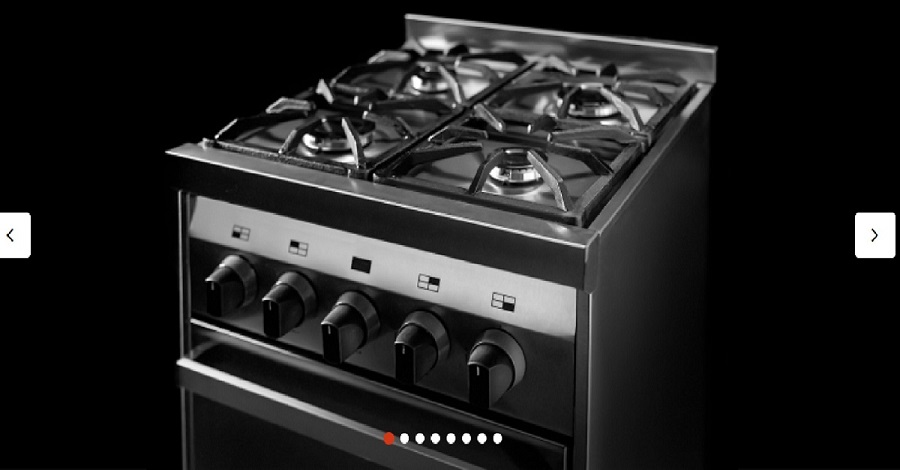
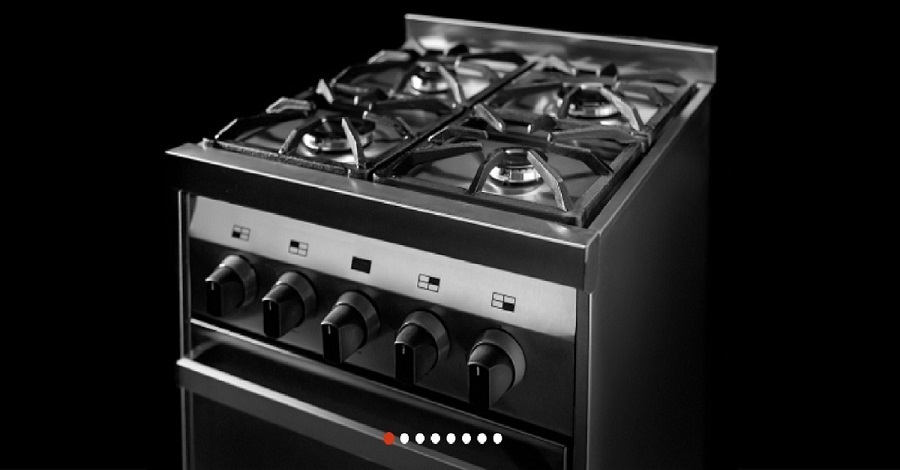
implementacion de carousel en index

Changed region(s): [[0.9333, 0.4468, 0.9956, 0.566], [0.0, 0.4468, 0.0622, 0.566]]

diff --git a/index.html b/index.html
@@ -27,19 +27,47 @@
             </nav>
     </header>
     <main>         
-        <h1 class="titulo">REFRICAR EQUIPAMIENTOS</h1>
-        <img class="img__portada" src="recursos/Foto header.jpg" alt="foto_portada">
+        <section class="container-fluid">
+            <div id="carouselExampleIndicators" class="carousel slide" data-bs-ride="true">
+                <div class="carousel-indicators">
+                    <button type="button" data-bs-target="#carouselExampleIndicators" data-bs-slide-to="0" class="active" aria-current="true" aria-label="Slide 1"></button>
+                    <button type="button" data-bs-target="#carouselExampleIndicators" data-bs-slide-to="1" aria-label="Slide 2"></button>
+                    <button type="button" data-bs-target="#carouselExampleIndicators" data-bs-slide-to="2" aria-label="Slide 3"></button>
+                </div>
+                <div class="carousel-inner">
+                    <div class="carousel-item active">
+                        <img src= "recursos/Foto header.jpg" class="d-block w-100" alt="...">
+                    </div>
+                    <div class="carousel-item">
+                        <img src="recursos/Batidora planetaria MP-7-01-834x800.jpg" class="d-block w-100" alt="...">
+                    </div>
+                    <div class="carousel-item">
+                        <img src="recursos/Horno convector mc840.jpg" class="d-block w-100" alt="...">
+                    </div>
+                </div>
+                <button class="carousel-control-prev" type="button" data-bs-target="#carouselExampleIndicators" data-bs-slide="prev">
+                    <span class="carousel-control-prev-icon" aria-hidden="true"></span>
+                    <span class="visually-hidden">Previous</span>
+                </button>
+                <button class="carousel-control-next" type="button" data-bs-target="#carouselExampleIndicators" data-bs-slide="next">
+                    <span class="carousel-control-next-icon" aria-hidden="true"></span>
+                    <span class="visually-hidden">Next</span>
+                </button>
+            </div>
+
+        </section>
+        <!-- seccion index -->
         <section class="container"> 
-            <article class="d-flex flex-row col xl-3 justify-content-between">
-                <div class=" d-flex flex-column align-items-center">
+            <article class="d-flex flex-row flex-wrap justify-content-around">
+                <div class=" d-flex flex-column align-items-center col-xl-3 col-md-9 col-sd-10">
                     <img src="recursos/Sucursales.jpg" alt="Sucursales" class="img-fluid">
                     <button class="button__indexStile">SUCURSALES</button> 
                 </div>
-                <div class="d-flex flex-column align-items-center">
+                <div class="d-flex flex-column align-items-center col-xl-3 col-md-9 col-sd-10">
                     <img src="recursos/Servicio Tecnico.jpg" alt="servicio Tecnico" class="img-fluid">
                     <button class="button__indexStile">SERVICIO TECNICO</button>
                 </div>
-                <div class="d-flex flex-column align-items-center">
+                <div class="d-flex flex-column align-items-center col-xl-3 col-md-9 col-sd-10">
                     <img src="recursos/atencion-al-cliente.jpg" alt="" class="img-fluid">
                     <button class="button__indexStile">ASESORAMIENTO</button>
                 </div>

diff --git a/css/estilo.css b/css/estilo.css
@@ -124,7 +124,7 @@ li{
     background-image: linear-gradient(to top, rgb(36, 36, 211),rgba(211, 42, 42, 0.747)); 
     margin-top: 0px; 
     width: 9.125rem;
-    height: 3.5rem;
+    height: 2.5rem;
     font-weight: bolder;
     border: 2px solid rgb(15, 15, 15);
     border-radius: 0.188rem;
